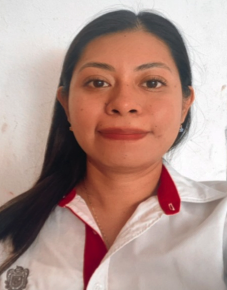
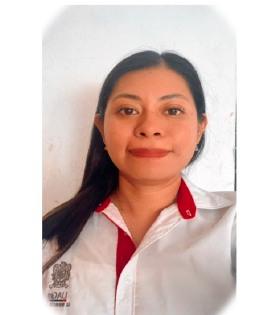
feat: :art: modified teams carousel

diff --git a/features/ui/components/cards.tsx b/features/ui/components/cards.tsx
@@ -4,10 +4,10 @@ import { cn } from '@/utils/functions';
 import Label from './label';
 import { ReactNode } from 'react';
 import { administrativeTeam } from '@/features/team/utils/constants';
+import Image from 'next/image';
 
 const animations = {
-  scale:
-    'transition-all duration-300 hover:z-10 hover:scale-[1.02] sm:hover:scale-[0]',
+  scale: 'transition-all duration-300  hover:scale-[1.02] sm:hover:scale-[1]',
   none: '',
 };
 interface CardProps {
@@ -36,18 +36,21 @@ export default function Card({
 export function TeamCards() {
   return (
     <>
-      {administrativeTeam.map((item, index) => (
-        <Card key={index} className="h-95 pb-8">
-          <div className="flex flex-col items-center justify-between pb-8">
-            <img
-              className="w-70 rounded-t-md"
-              src="https://randomuser.me/api/portraits/men/76.jpg"
-              alt="Director Dr. Arturo Jaimes Vega"
-            />
-            <div className="m-auto flex w-70 flex-col items-center justify-center gap-2">
-              <h3 className="w-full">{item.name}</h3>
-              <Label variant="announcement" labelText={item.position} />
-            </div>
+      {administrativeTeam.map(item => (
+        <Card
+          key={item.id}
+          className="pb-8m-auto m-auto flex h-95 flex-col items-center justify-between pb-8"
+        >
+          <Image
+            src={item.src}
+            alt={`Foto de ${item.name}`}
+            width={100}
+            height={100}
+            className="w-70 rounded-t-md object-cover"
+          />
+          <div className="m-auto flex w-70 flex-col items-center justify-center gap-2">
+            <h3 className="w-full">{item.name}</h3>
+            <Label variant="announcement" labelText={item.position} />
           </div>
         </Card>
       ))}
